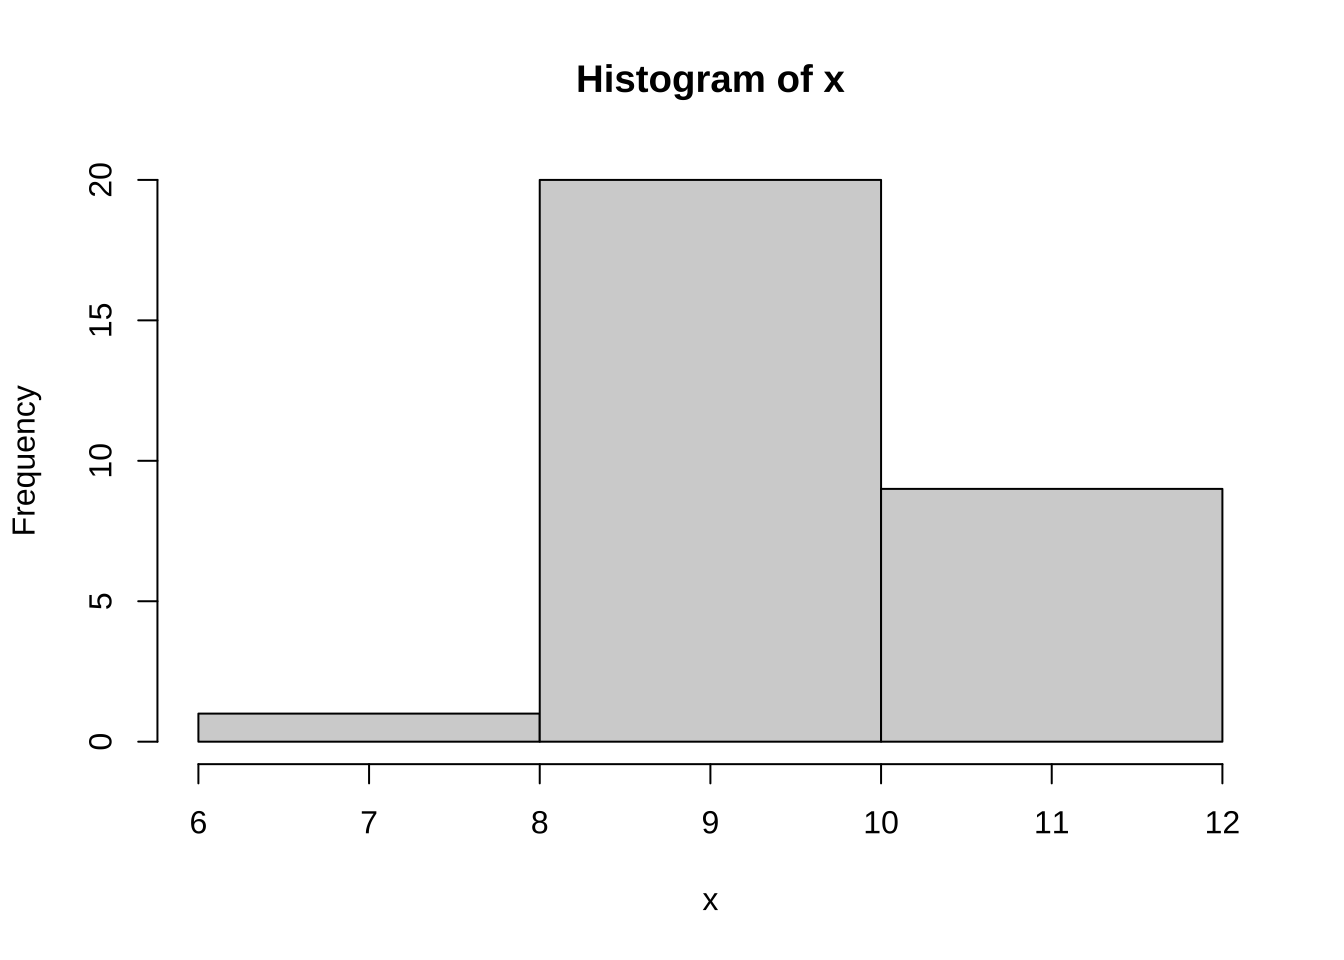
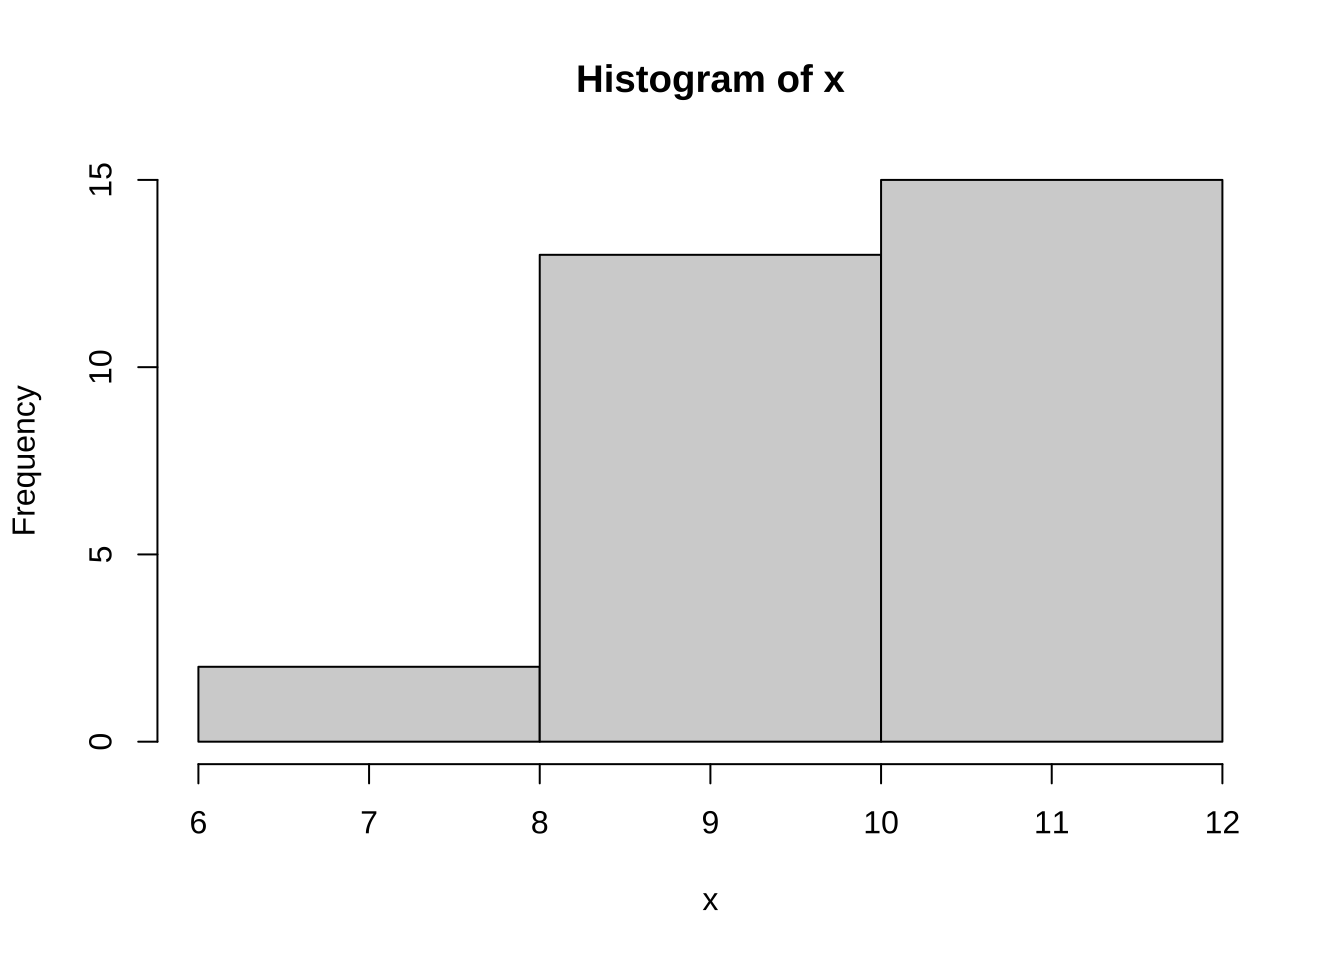
1

diff --git a/causal.html b/causal.html
@@ -204,8 +204,8 @@ code span.wa { color: #60a0b0; font-weight: bold; font-style: italic; } /* Warni
 </ul></li>
 <li class="chapter" data-level="3" data-path="other-packages.html"><a href="other-packages.html"><i class="fa fa-check"></i><b>3</b> 其他相关拓展包</a>
 <ul>
-<li class="chapter" data-level="3.1" data-path="other-packages.html"><a href="other-packages.html#ggplot官网-108-种拓展包"><i class="fa fa-check"></i><b>3.1</b> ggplot官网 108 种拓展包</a></li>
-<li class="chapter" data-level="3.2" data-path="other-packages.html"><a href="other-packages.html#我整理的-11-个扩展包"><i class="fa fa-check"></i><b>3.2</b> 我整理的 11 个扩展包</a></li>
+<li class="chapter" data-level="3.1" data-path="other-packages.html"><a href="other-packages.html#ggplot2-官网-109-种拓展包"><i class="fa fa-check"></i><b>3.1</b> ggplot2 官网 109 种拓展包</a></li>
+<li class="chapter" data-level="3.2" data-path="other-packages.html"><a href="other-packages.html#整理的相关扩展包"><i class="fa fa-check"></i><b>3.2</b> 整理的相关扩展包</a></li>
 </ul></li>
 <li class="chapter" data-level="4" data-path="interactive-ploting.html"><a href="interactive-ploting.html"><i class="fa fa-check"></i><b>4</b> 认识交互式绘图工具</a>
 <ul>
@@ -281,9 +281,9 @@ code span.wa { color: #60a0b0; font-weight: bold; font-style: italic; } /* Warni
 <div class="sourceCode" id="cb1"><pre class="sourceCode r"><code class="sourceCode r"><span id="cb1-1"><a href="causal.html#cb1-1" aria-hidden="true" tabindex="-1"></a><span class="co"># 数据模拟产生</span></span>
 <span id="cb1-2"><a href="causal.html#cb1-2" aria-hidden="true" tabindex="-1"></a>x <span class="ot">&lt;-</span> <span class="fu">rnorm</span>(<span class="dv">30</span>, <span class="at">mean =</span> <span class="dv">10</span>, <span class="at">sd =</span> <span class="dv">1</span>)</span>
 <span id="cb1-3"><a href="causal.html#cb1-3" aria-hidden="true" tabindex="-1"></a><span class="fu">print</span>(<span class="fu">round</span>(x, <span class="dv">2</span>))</span></code></pre></div>
-<pre><code>##  [1] 10.03  9.29 11.51  9.78  8.50 10.07 10.05  9.89  9.36 10.97  9.09  8.93
-## [13]  9.29  9.78  9.77  8.95 10.36  8.75 10.53  9.63  9.91  8.89  9.71  7.31
-## [25]  9.70 11.05  9.25  9.23 10.45  9.73</code></pre>
+<pre><code>##  [1] 10.38  9.39  8.99  9.64 10.48  8.34  9.19 10.24 10.67 10.22  9.26  9.47
+## [13]  8.43 11.38 10.45 10.28 10.60 11.53 11.57  9.08  9.20 11.87  7.63 10.99
+## [25]  9.19  9.86 11.32  9.47 10.62  7.72</code></pre>
 <p><code>hist()</code>中的<code>breaks()</code>可以分段区间，取值可以是一个向量（各区间端点）或者一个数字（拆分为多少段），或者一个字符串（计算划分区间的算法名称），或者一个函数（划分区间个数的方法）。这里给出例子</p>
 <div class="sourceCode" id="cb3"><pre class="sourceCode r"><code class="sourceCode r"><span id="cb3-1"><a href="causal.html#cb3-1" aria-hidden="true" tabindex="-1"></a><span class="fu">hist</span>(x, <span class="at">breaks =</span> <span class="dv">3</span>)</span></code></pre></div>
 <p><img src="1001-chapter01_files/figure-html/unnamed-chunk-3-1.png" width="672" style="display: block; margin: auto;" /></p>

diff --git a/index.html b/index.html
@@ -204,8 +204,8 @@ code span.wa { color: #60a0b0; font-weight: bold; font-style: italic; } /* Warni
 </ul></li>
 <li class="chapter" data-level="3" data-path="other-packages.html"><a href="other-packages.html"><i class="fa fa-check"></i><b>3</b> 其他相关拓展包</a>
 <ul>
-<li class="chapter" data-level="3.1" data-path="other-packages.html"><a href="other-packages.html#ggplot官网-108-种拓展包"><i class="fa fa-check"></i><b>3.1</b> ggplot官网 108 种拓展包</a></li>
-<li class="chapter" data-level="3.2" data-path="other-packages.html"><a href="other-packages.html#我整理的-11-个扩展包"><i class="fa fa-check"></i><b>3.2</b> 我整理的 11 个扩展包</a></li>
+<li class="chapter" data-level="3.1" data-path="other-packages.html"><a href="other-packages.html#ggplot2-官网-109-种拓展包"><i class="fa fa-check"></i><b>3.1</b> ggplot2 官网 109 种拓展包</a></li>
+<li class="chapter" data-level="3.2" data-path="other-packages.html"><a href="other-packages.html#整理的相关扩展包"><i class="fa fa-check"></i><b>3.2</b> 整理的相关扩展包</a></li>
 </ul></li>
 <li class="chapter" data-level="4" data-path="interactive-ploting.html"><a href="interactive-ploting.html"><i class="fa fa-check"></i><b>4</b> 认识交互式绘图工具</a>
 <ul>
@@ -276,7 +276,7 @@ code span.wa { color: #60a0b0; font-weight: bold; font-style: italic; } /* Warni
 <p>笔记还会持续更新，读者可以通过我的公众号<a href="https://zll-blog.netlify.app/images/wechat.png">《庄闪闪的 R 语言手册》</a>了解最新的学习笔记。</p>
 <p>我是庄闪闪，这是我的<a href="https://zll-blog.netlify.app/">个人博客</a>,
 如果有什么问题，可以通过以下方式联系我：</p>
-<p><a href="https://zll-blog.netlify.app/images/wechat.png">公众号</a>、<a href="https://space.bilibili.com/226576305">B 站</a>、<a href="https://www.zhihu.com/people/zhuangshanshan">知乎</a>、<a href="https://blog.csdn.net/qq_37379316?spm=1011.2124.3001.5343">CSDN</a>、<a href="https://www.xiaohongshu.com/user/profile/597fbfc15e87e755ab15dc26?xhsshare=WeixinSession&amp;appuid=597fbfc15e87e755ab15dc26&amp;apptime=1627016124">小红书</a>、<a href="https://juejin.cn/user/1689330843128008">掘金</a></p>
+<p><a href="https://github.com/liangliangzhuang">GitHub</a>、<a href="https://space.bilibili.com/226576305">B 站</a>、<a href="https://www.zhihu.com/people/zhuangshanshan">知乎</a>、<a href="https://blog.csdn.net/qq_37379316?spm=1011.2124.3001.5343">CSDN</a>、<a href="https://www.xiaohongshu.com/user/profile/597fbfc15e87e755ab15dc26?xhsshare=WeixinSession&amp;appuid=597fbfc15e87e755ab15dc26&amp;apptime=1627016124">小红书</a>、<a href="https://juejin.cn/user/1689330843128008">掘金</a></p>
 
 </div>
             </section>

diff --git a/other-packages.html b/other-packages.html
@@ -202,7 +202,6 @@ MathJax.Hub.Config({
             <section class="normal" id="section-">
 <div id="other-packages" class="section level1" number="3">
 <h1><span class="header-section-number">3</span> 其他相关拓展包</h1>
-<p>介绍一些 ggplot2 扩展可视化包以及其他实用的包。全部在这：<a href="https://mp.weixin.qq.com/mp/homepage?__biz=MzI1NjUwMjQxMQ==&amp;hid=8&amp;sn=b6495a051d1dc5c81280c41d5236b100&amp;scene=1&amp;devicetype=android-29&amp;version=2700143f&amp;lang=zh_CN&amp;nettype=cmnet&amp;ascene=7&amp;session_us=gh_b289177c65aa&amp;wx_header=1">其他相关拓展包</a></p>
 <div id="ggplot2-官网-109-种拓展包" class="section level2" number="3.1">
 <h2><span class="header-section-number">3.1</span> ggplot2 官网 109 种拓展包</h2>
 <p>该网站一共汇总了 109 种与ggplot2 包相关的<a href="https://exts.ggplot2.tidyverse.org/gallery/">拓展包</a>，并且在不断更新中。拓展包与 ggplot2 包可以无缝连接，网站截图如下：</p>
@@ -229,13 +228,9 @@ MathJax.Hub.Config({
 <li><p><a href="https://mp.weixin.qq.com/s/JqzHEvFfGlDSCdTWhw5uxQ">R-ggchicklet - 圆角条形图绘制</a></p></li>
 <li><p><a href="https://mp.weixin.qq.com/s/3IhAxIW6nRYjyWhyepT0kQ">ggstatsplot包：数据可视化与统计建模相结合</a></p></li>
 <li><p><a href="https://mp.weixin.qq.com/s/cq7xnbUG01k_v6WzU9Us6A">igraph包——绘制网络图</a></p></li>
-</ol>
-<p>1.<a href="https://mp.weixin.qq.com/s/qJ7iqCt3VgCTI9erd5XzsQ">explore包——化繁为简，交互式数据探索分析</a></p>
-<ol style="list-style-type: decimal">
+<li><p><a href="https://mp.weixin.qq.com/s/qJ7iqCt3VgCTI9erd5XzsQ">explore包——化繁为简，交互式数据探索分析</a></p></li>
 <li><p><a href="https://mp.weixin.qq.com/s/KZ1Zy4EYC3Ex5M38zypc3g">grafify包｜快速绘制19个 ggplot2 图形</a></p></li>
 <li><p><a href="https://mp.weixin.qq.com/s/NvqznH9kA4E9c9qus0K-8g">ggThemeAssist包：交互式修改图形主题</a></p></li>
-<li><p><a href="https://github.com/jrnold/ggthemes">ggthemes</a>待补充</p></li>
-<li><p><a href="https://gganimate.com/">gganimate</a>待补充</p></li>
 </ol>
 
 </div>

diff --git a/appendix.html b/appendix.html
@@ -204,8 +204,8 @@ code span.wa { color: #60a0b0; font-weight: bold; font-style: italic; } /* Warni
 </ul></li>
 <li class="chapter" data-level="3" data-path="other-packages.html"><a href="other-packages.html"><i class="fa fa-check"></i><b>3</b> 其他相关拓展包</a>
 <ul>
-<li class="chapter" data-level="3.1" data-path="other-packages.html"><a href="other-packages.html#ggplot官网-108-种拓展包"><i class="fa fa-check"></i><b>3.1</b> ggplot官网 108 种拓展包</a></li>
-<li class="chapter" data-level="3.2" data-path="other-packages.html"><a href="other-packages.html#我整理的-11-个扩展包"><i class="fa fa-check"></i><b>3.2</b> 我整理的 11 个扩展包</a></li>
+<li class="chapter" data-level="3.1" data-path="other-packages.html"><a href="other-packages.html#ggplot2-官网-109-种拓展包"><i class="fa fa-check"></i><b>3.1</b> ggplot2 官网 109 种拓展包</a></li>
+<li class="chapter" data-level="3.2" data-path="other-packages.html"><a href="other-packages.html#整理的相关扩展包"><i class="fa fa-check"></i><b>3.2</b> 整理的相关扩展包</a></li>
 </ul></li>
 <li class="chapter" data-level="4" data-path="interactive-ploting.html"><a href="interactive-ploting.html"><i class="fa fa-check"></i><b>4</b> 认识交互式绘图工具</a>
 <ul>

diff --git a/ggplot2-plot.html b/ggplot2-plot.html
@@ -204,8 +204,8 @@ code span.wa { color: #60a0b0; font-weight: bold; font-style: italic; } /* Warni
 </ul></li>
 <li class="chapter" data-level="3" data-path="other-packages.html"><a href="other-packages.html"><i class="fa fa-check"></i><b>3</b> 其他相关拓展包</a>
 <ul>
-<li class="chapter" data-level="3.1" data-path="other-packages.html"><a href="other-packages.html#ggplot官网-108-种拓展包"><i class="fa fa-check"></i><b>3.1</b> ggplot官网 108 种拓展包</a></li>
-<li class="chapter" data-level="3.2" data-path="other-packages.html"><a href="other-packages.html#我整理的-11-个扩展包"><i class="fa fa-check"></i><b>3.2</b> 我整理的 11 个扩展包</a></li>
+<li class="chapter" data-level="3.1" data-path="other-packages.html"><a href="other-packages.html#ggplot2-官网-109-种拓展包"><i class="fa fa-check"></i><b>3.1</b> ggplot2 官网 109 种拓展包</a></li>
+<li class="chapter" data-level="3.2" data-path="other-packages.html"><a href="other-packages.html#整理的相关扩展包"><i class="fa fa-check"></i><b>3.2</b> 整理的相关扩展包</a></li>
 </ul></li>
 <li class="chapter" data-level="4" data-path="interactive-ploting.html"><a href="interactive-ploting.html"><i class="fa fa-check"></i><b>4</b> 认识交互式绘图工具</a>
 <ul>

diff --git a/interactive-ploting.html b/interactive-ploting.html
@@ -204,8 +204,8 @@ code span.wa { color: #60a0b0; font-weight: bold; font-style: italic; } /* Warni
 </ul></li>
 <li class="chapter" data-level="3" data-path="other-packages.html"><a href="other-packages.html"><i class="fa fa-check"></i><b>3</b> 其他相关拓展包</a>
 <ul>
-<li class="chapter" data-level="3.1" data-path="other-packages.html"><a href="other-packages.html#ggplot官网-108-种拓展包"><i class="fa fa-check"></i><b>3.1</b> ggplot官网 108 种拓展包</a></li>
-<li class="chapter" data-level="3.2" data-path="other-packages.html"><a href="other-packages.html#我整理的-11-个扩展包"><i class="fa fa-check"></i><b>3.2</b> 我整理的 11 个扩展包</a></li>
+<li class="chapter" data-level="3.1" data-path="other-packages.html"><a href="other-packages.html#ggplot2-官网-109-种拓展包"><i class="fa fa-check"></i><b>3.1</b> ggplot2 官网 109 种拓展包</a></li>
+<li class="chapter" data-level="3.2" data-path="other-packages.html"><a href="other-packages.html#整理的相关扩展包"><i class="fa fa-check"></i><b>3.2</b> 整理的相关扩展包</a></li>
 </ul></li>
 <li class="chapter" data-level="4" data-path="interactive-ploting.html"><a href="interactive-ploting.html"><i class="fa fa-check"></i><b>4</b> 认识交互式绘图工具</a>
 <ul>

diff --git a/reference.html b/reference.html
@@ -204,8 +204,8 @@ code span.wa { color: #60a0b0; font-weight: bold; font-style: italic; } /* Warni
 </ul></li>
 <li class="chapter" data-level="3" data-path="other-packages.html"><a href="other-packages.html"><i class="fa fa-check"></i><b>3</b> 其他相关拓展包</a>
 <ul>
-<li class="chapter" data-level="3.1" data-path="other-packages.html"><a href="other-packages.html#ggplot官网-108-种拓展包"><i class="fa fa-check"></i><b>3.1</b> ggplot官网 108 种拓展包</a></li>
-<li class="chapter" data-level="3.2" data-path="other-packages.html"><a href="other-packages.html#我整理的-11-个扩展包"><i class="fa fa-check"></i><b>3.2</b> 我整理的 11 个扩展包</a></li>
+<li class="chapter" data-level="3.1" data-path="other-packages.html"><a href="other-packages.html#ggplot2-官网-109-种拓展包"><i class="fa fa-check"></i><b>3.1</b> ggplot2 官网 109 种拓展包</a></li>
+<li class="chapter" data-level="3.2" data-path="other-packages.html"><a href="other-packages.html#整理的相关扩展包"><i class="fa fa-check"></i><b>3.2</b> 整理的相关扩展包</a></li>
 </ul></li>
 <li class="chapter" data-level="4" data-path="interactive-ploting.html"><a href="interactive-ploting.html"><i class="fa fa-check"></i><b>4</b> 认识交互式绘图工具</a>
 <ul>

diff --git a/some-tips.html b/some-tips.html
@@ -204,8 +204,8 @@ code span.wa { color: #60a0b0; font-weight: bold; font-style: italic; } /* Warni
 </ul></li>
 <li class="chapter" data-level="3" data-path="other-packages.html"><a href="other-packages.html"><i class="fa fa-check"></i><b>3</b> 其他相关拓展包</a>
 <ul>
-<li class="chapter" data-level="3.1" data-path="other-packages.html"><a href="other-packages.html#ggplot官网-108-种拓展包"><i class="fa fa-check"></i><b>3.1</b> ggplot官网 108 种拓展包</a></li>
-<li class="chapter" data-level="3.2" data-path="other-packages.html"><a href="other-packages.html#我整理的-11-个扩展包"><i class="fa fa-check"></i><b>3.2</b> 我整理的 11 个扩展包</a></li>
+<li class="chapter" data-level="3.1" data-path="other-packages.html"><a href="other-packages.html#ggplot2-官网-109-种拓展包"><i class="fa fa-check"></i><b>3.1</b> ggplot2 官网 109 种拓展包</a></li>
+<li class="chapter" data-level="3.2" data-path="other-packages.html"><a href="other-packages.html#整理的相关扩展包"><i class="fa fa-check"></i><b>3.2</b> 整理的相关扩展包</a></li>
 </ul></li>
 <li class="chapter" data-level="4" data-path="interactive-ploting.html"><a href="interactive-ploting.html"><i class="fa fa-check"></i><b>4</b> 认识交互式绘图工具</a>
 <ul>

diff --git a/3001-chapter03.md b/3001-chapter03.md
@@ -2,8 +2,6 @@
 
 
 
-介绍一些 ggplot2 扩展可视化包以及其他实用的包。全部在这：[其他相关拓展包](https://mp.weixin.qq.com/mp/homepage?__biz=MzI1NjUwMjQxMQ==&hid=8&sn=b6495a051d1dc5c81280c41d5236b100&scene=1&devicetype=android-29&version=2700143f&lang=zh_CN&nettype=cmnet&ascene=7&session_us=gh_b289177c65aa&wx_header=1)
-
 ## ggplot2 官网 109 种拓展包
 
 该网站一共汇总了 109 种与ggplot2 包相关的[拓展包](https://exts.ggplot2.tidyverse.org/gallery/)，并且在不断更新中。拓展包与 ggplot2 包可以无缝连接，网站截图如下：
@@ -44,12 +42,8 @@
 
 14. [igraph包------绘制网络图](https://mp.weixin.qq.com/s/cq7xnbUG01k_v6WzU9Us6A)
 
-1.[explore包------化繁为简，交互式数据探索分析](https://mp.weixin.qq.com/s/qJ7iqCt3VgCTI9erd5XzsQ)
+15. [explore包------化繁为简，交互式数据探索分析](https://mp.weixin.qq.com/s/qJ7iqCt3VgCTI9erd5XzsQ)
 
-1.  [grafify包｜快速绘制19个 ggplot2 图形](https://mp.weixin.qq.com/s/KZ1Zy4EYC3Ex5M38zypc3g)
+16. [grafify包｜快速绘制19个 ggplot2 图形](https://mp.weixin.qq.com/s/KZ1Zy4EYC3Ex5M38zypc3g)
 
-2.  [ggThemeAssist包：交互式修改图形主题](https://mp.weixin.qq.com/s/NvqznH9kA4E9c9qus0K-8g)
-
-3.  [ggthemes](https://github.com/jrnold/ggthemes)待补充
-
-4.  [gganimate](https://gganimate.com/)待补充
+17. [ggThemeAssist包：交互式修改图形主题](https://mp.weixin.qq.com/s/NvqznH9kA4E9c9qus0K-8g)

diff --git a/index.md b/index.md
@@ -26,7 +26,7 @@ link-citations: yes
 我是庄闪闪，这是我的[个人博客](https://zll-blog.netlify.app/),
 如果有什么问题，可以通过以下方式联系我：
 
-[公众号](https://zll-blog.netlify.app/images/wechat.png)、[B 站](https://space.bilibili.com/226576305)、[知乎](https://www.zhihu.com/people/zhuangshanshan)、[CSDN](https://blog.csdn.net/qq_37379316?spm=1011.2124.3001.5343)、[小红书](https://www.xiaohongshu.com/user/profile/597fbfc15e87e755ab15dc26?xhsshare=WeixinSession&appuid=597fbfc15e87e755ab15dc26&apptime=1627016124)、[掘金](https://juejin.cn/user/1689330843128008)
+[GitHub](https://github.com/liangliangzhuang)、[B 站](https://space.bilibili.com/226576305)、[知乎](https://www.zhihu.com/people/zhuangshanshan)、[CSDN](https://blog.csdn.net/qq_37379316?spm=1011.2124.3001.5343)、[小红书](https://www.xiaohongshu.com/user/profile/597fbfc15e87e755ab15dc26?xhsshare=WeixinSession&appuid=597fbfc15e87e755ab15dc26&apptime=1627016124)、[掘金](https://juejin.cn/user/1689330843128008)
 
 
 

diff --git a/1001-chapter01.md b/1001-chapter01.md
@@ -31,9 +31,9 @@ print(round(x, 2))
 ```
 
 ```
-##  [1] 10.03  9.29 11.51  9.78  8.50 10.07 10.05  9.89  9.36 10.97  9.09  8.93
-## [13]  9.29  9.78  9.77  8.95 10.36  8.75 10.53  9.63  9.91  8.89  9.71  7.31
-## [25]  9.70 11.05  9.25  9.23 10.45  9.73
+##  [1] 10.38  9.39  8.99  9.64 10.48  8.34  9.19 10.24 10.67 10.22  9.26  9.47
+## [13]  8.43 11.38 10.45 10.28 10.60 11.53 11.57  9.08  9.20 11.87  7.63 10.99
+## [25]  9.19  9.86 11.32  9.47 10.62  7.72
 ```
 
 `hist()`中的`breaks()`可以分段区间，取值可以是一个向量（各区间端点）或者一个数字（拆分为多少段），或者一个字符串（计算划分区间的算法名称），或者一个函数（划分区间个数的方法）。这里给出例子
